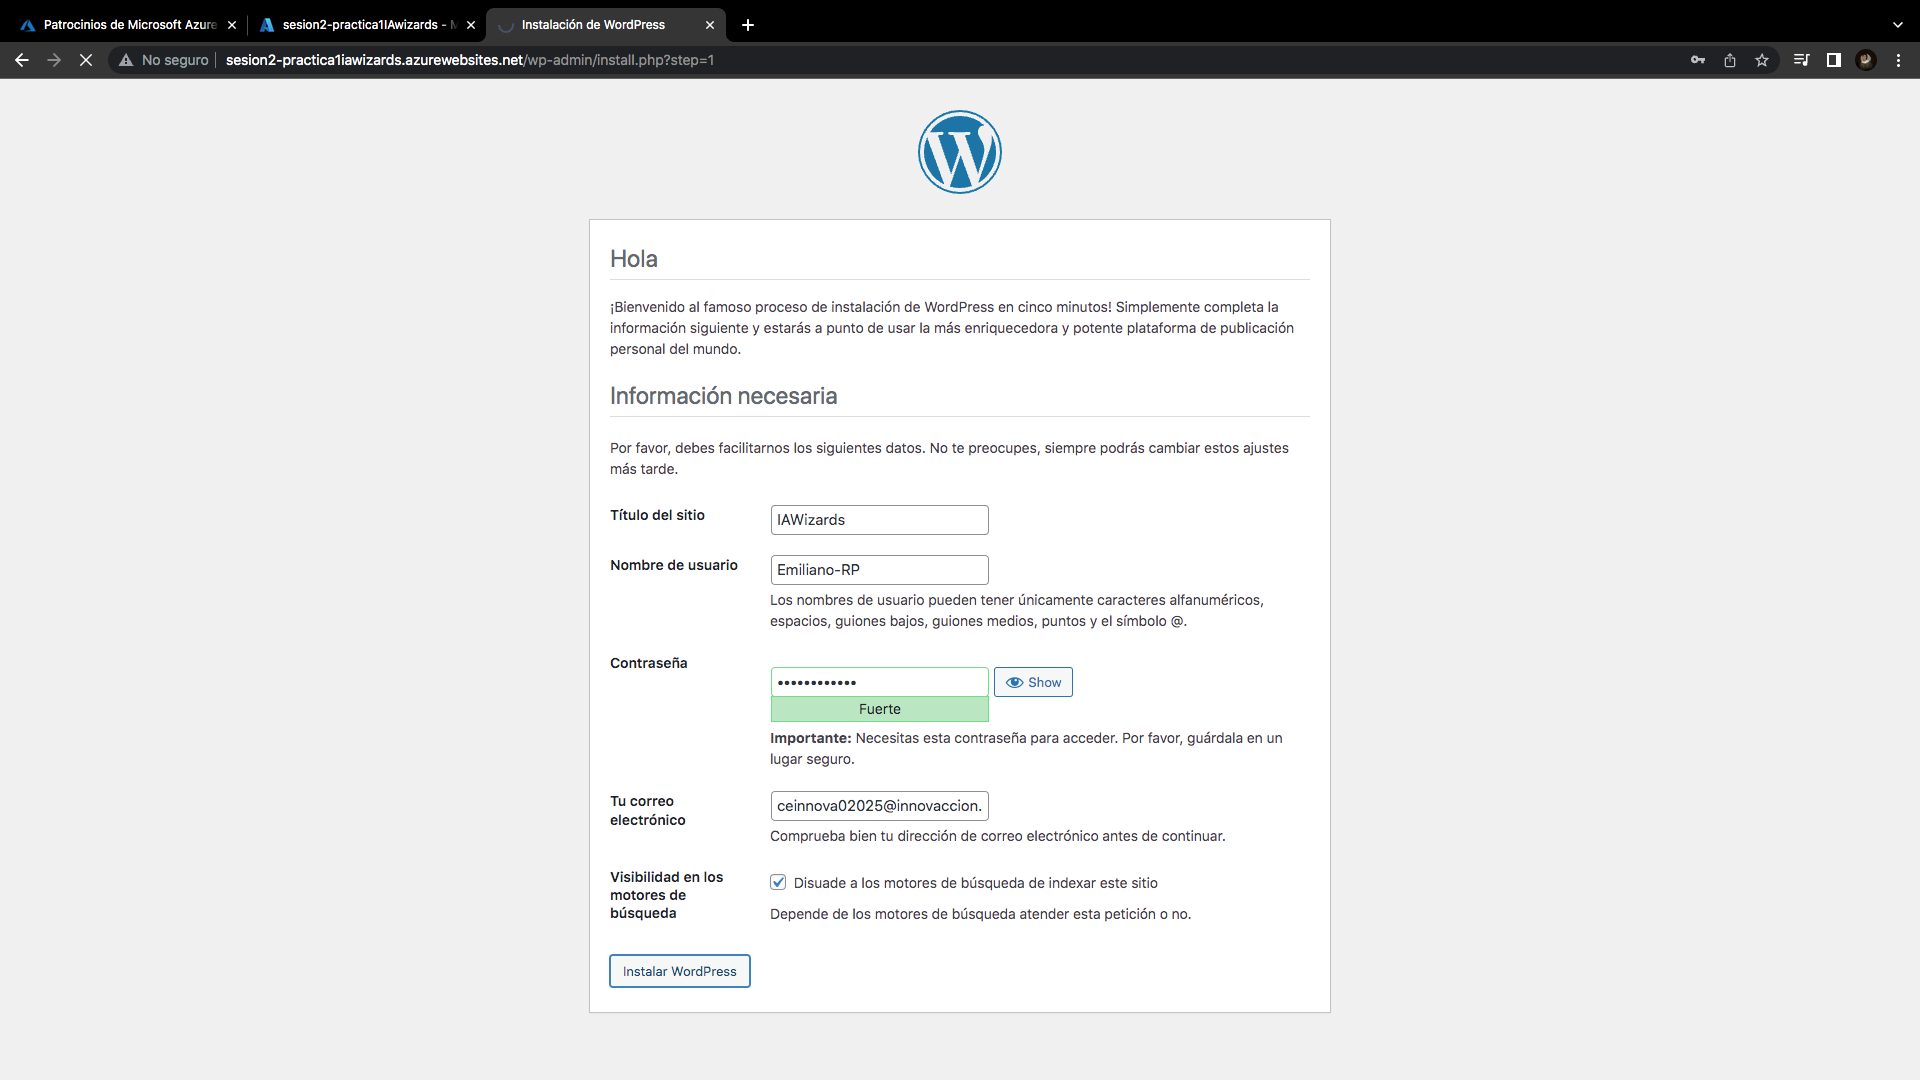
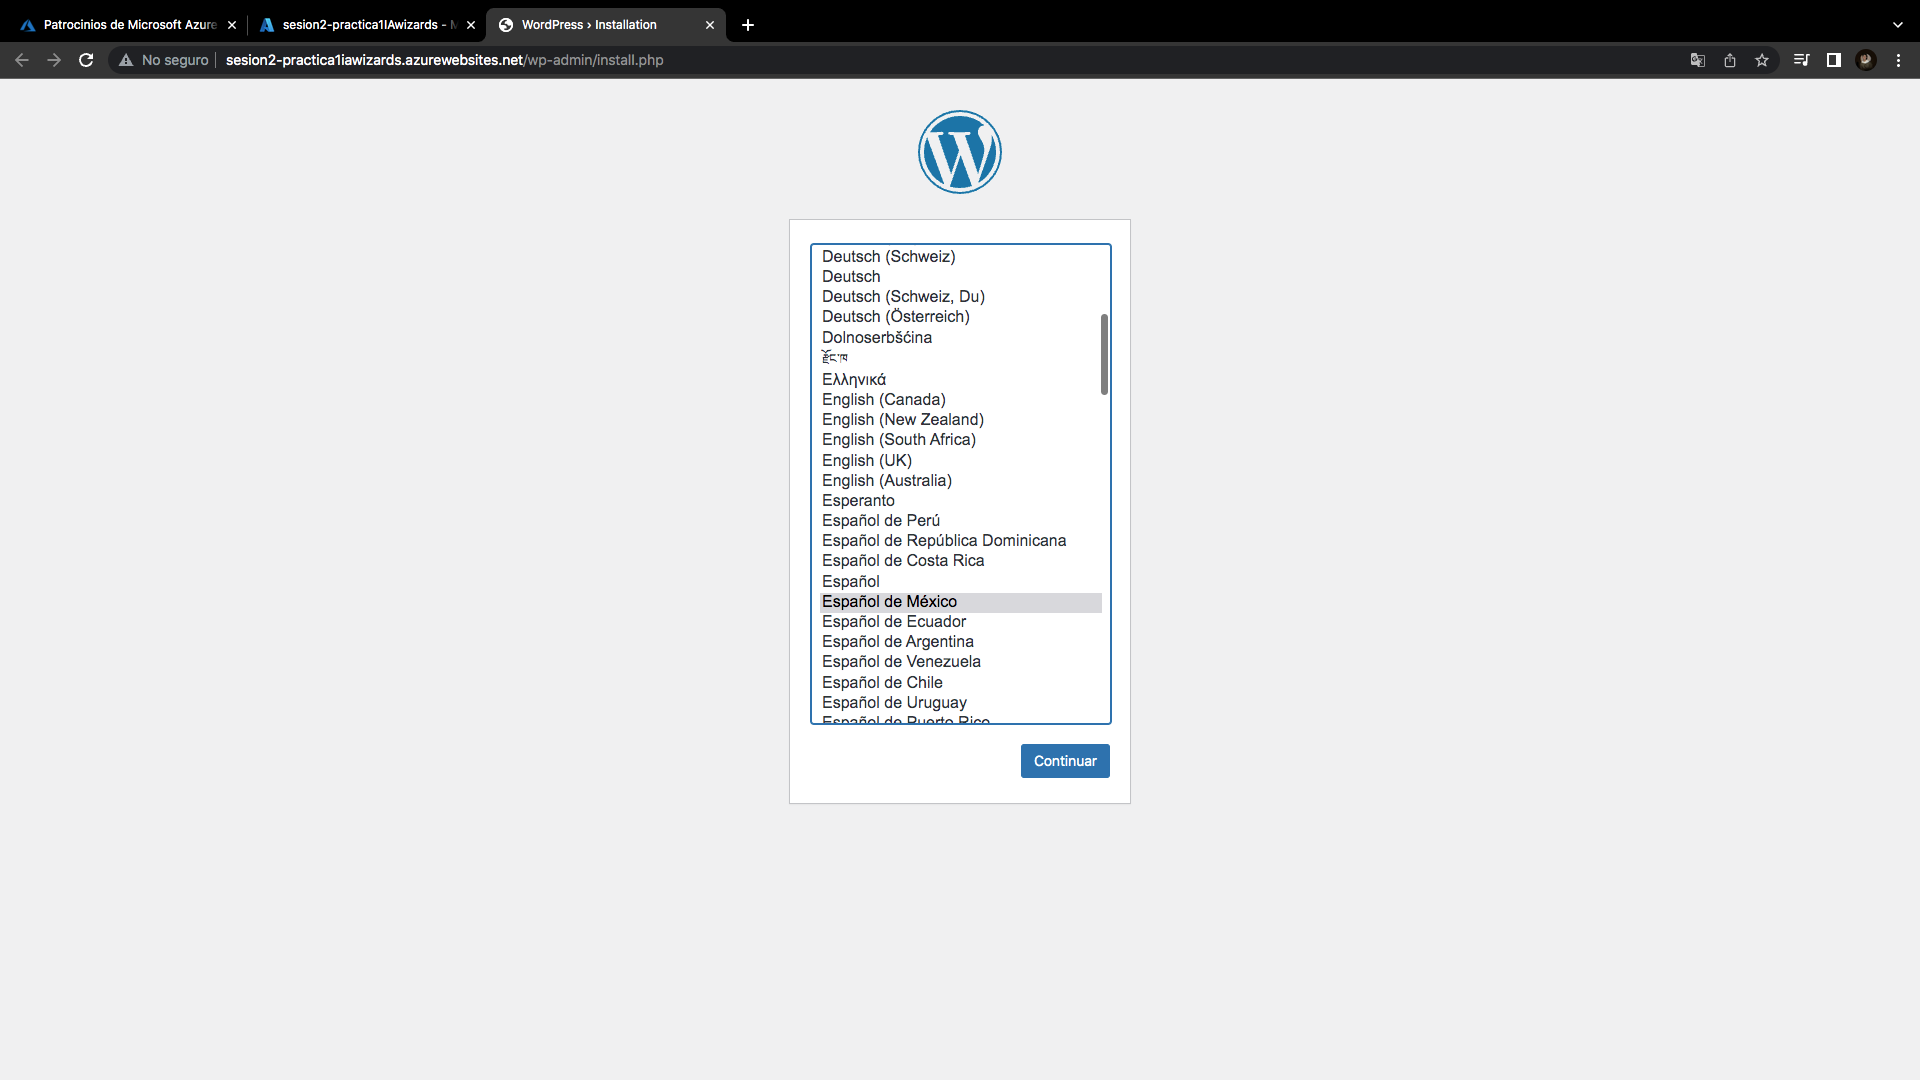
Initial commit

diff --git a/README.md b/README.md
@@ -72,4 +72,25 @@
 
 </center>
 
-9. 
+9. Damos click en el botón **"Revisar y crear"** para verificar que la información del recurso sea la correcta. Si todo está correcto, damos click en el botón **"Crear"**.
+<center>
+
+![Captura de pantalla](Imágenes/Captura-de-pantalla-8.png)
+
+</center>
+
+10.  Una vez implementado el recurso correctamente (cabe mencionar que este proceso puede ser tardado), damos click en el botón de **"Ir al recurso"**.
+<center>
+
+![Captura de pantalla](Imágenes/Captura-de-pantalla-9.png)
+
+</center>
+
+11. A continuación observaremos toda la información del recurso creado y es de nuestro interés dar click en la **URL del recurso**, en este ejemplo podemos observar que la URL es la que se enmarca en el recuadro rojo.
+<center>
+
+![Captura de pantalla](Imágenes/Captura-de-pantalla-10.png)
+
+</center>
+
+12. Una vez dado click en la URL, nos redireccionará a la página de **WordPress > Instalation**
